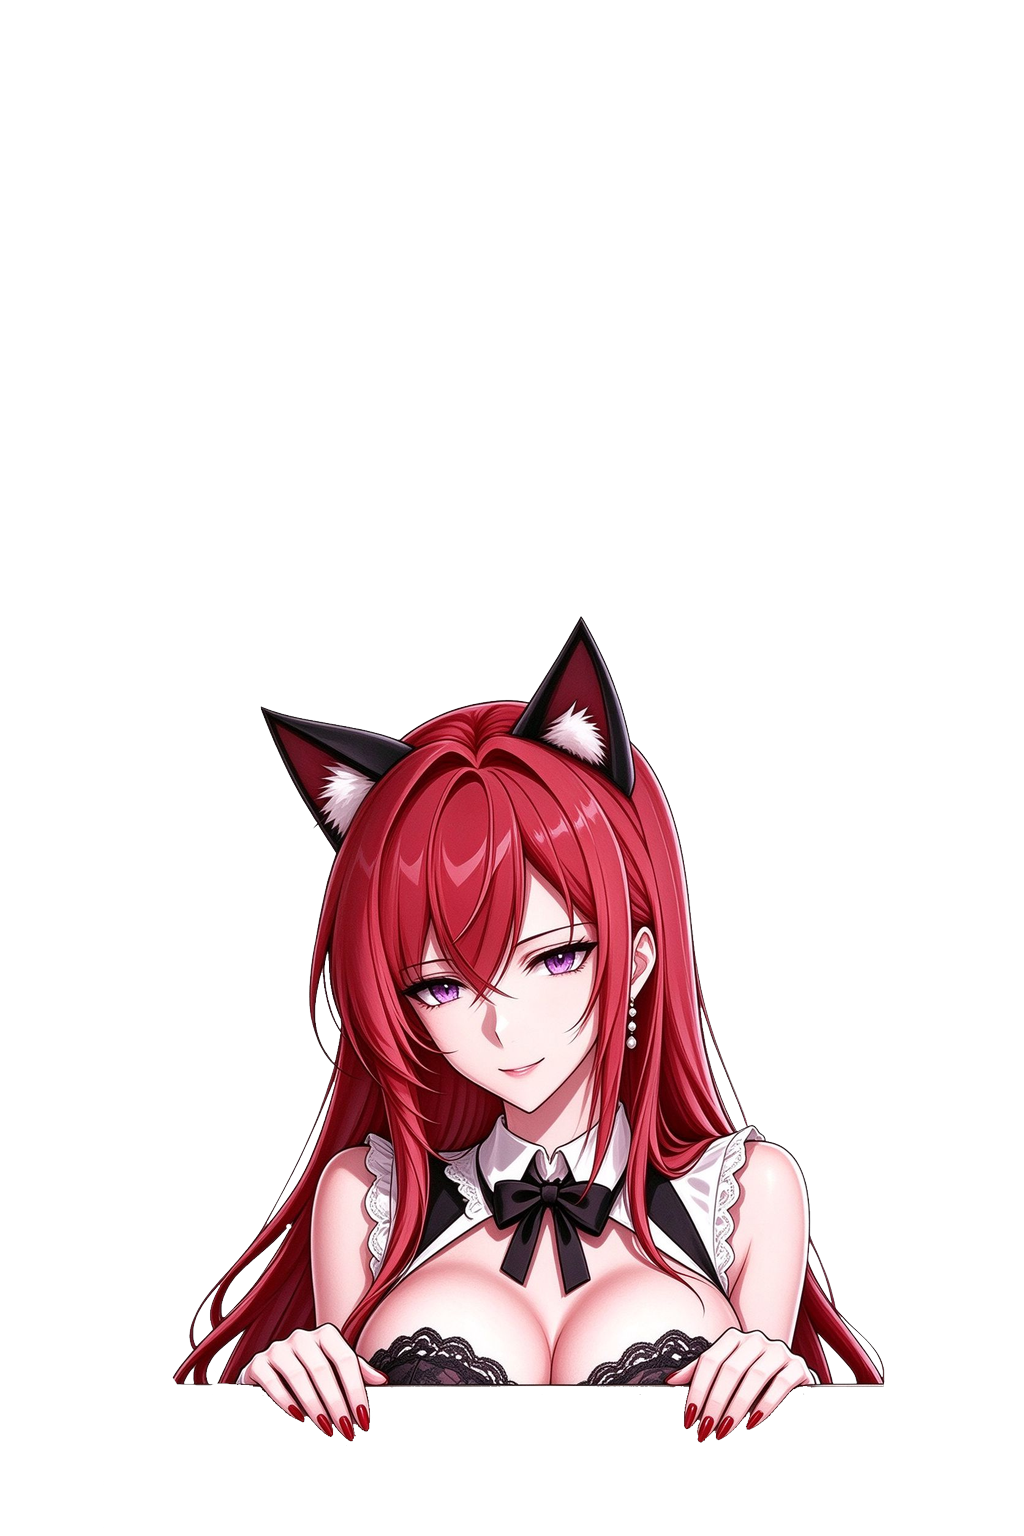
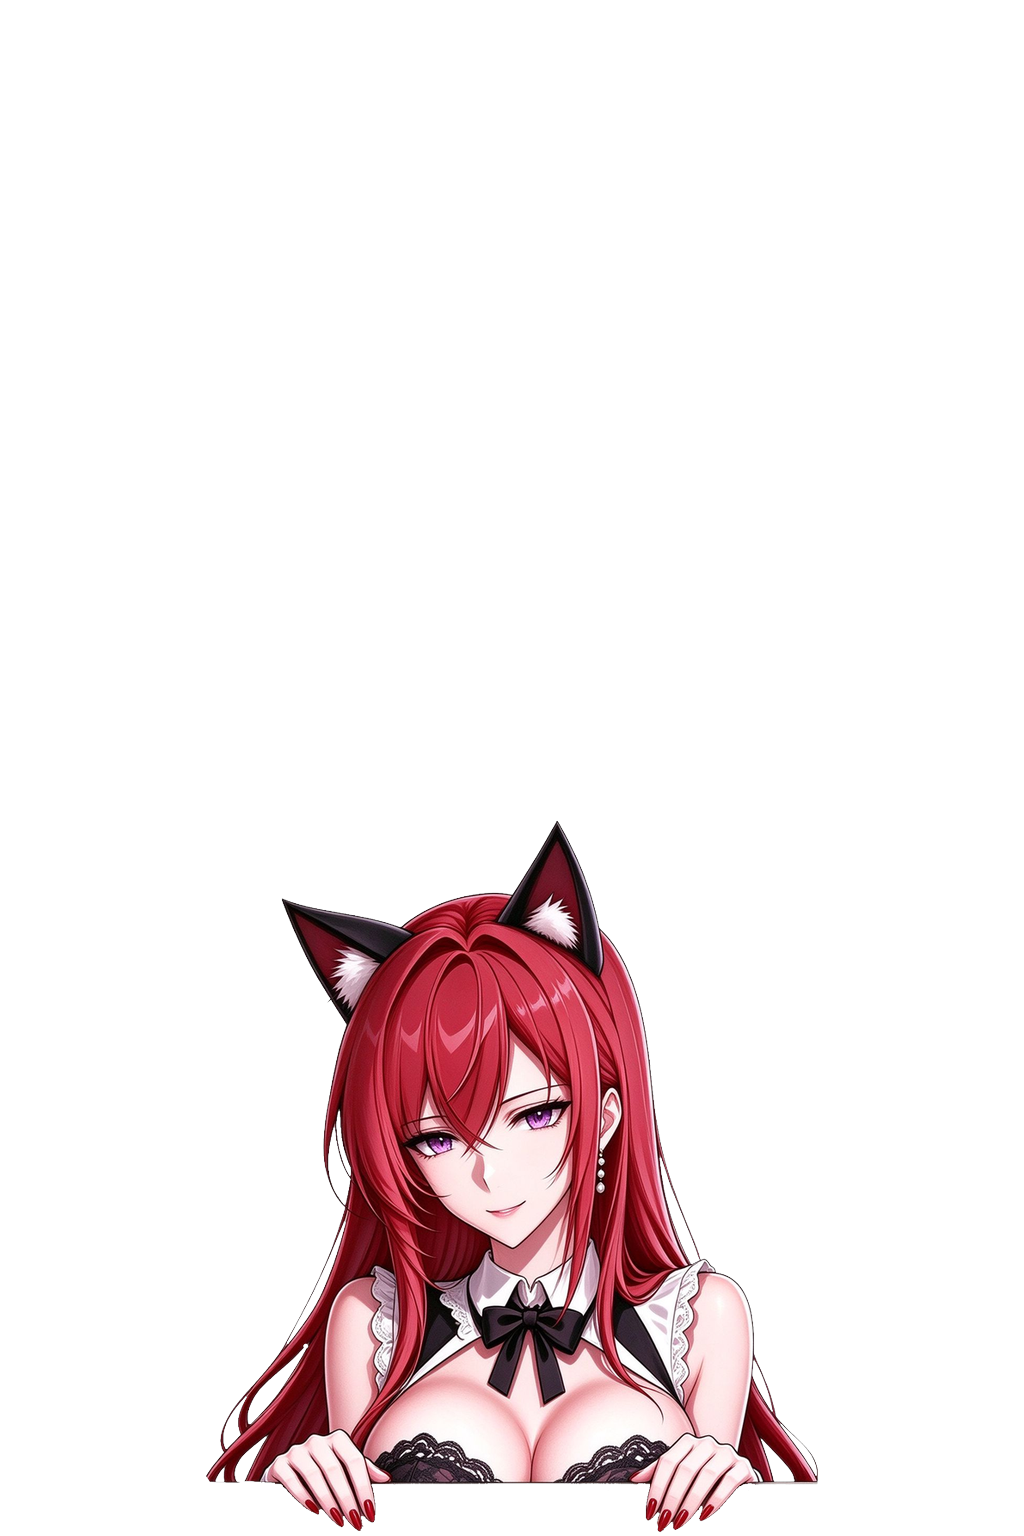
fix(wall): 三款趴墙高度统一以萝莉为标准 - wallScale固定1.0 + rabit/cat wall素材缩到47%贴底

Changed region(s): [[0.1562, 0.4062, 0.875, 1.0]]

diff --git a/HUD/sources/HUDRootViewController.mm b/HUD/sources/HUDRootViewController.mm
@@ -479,9 +479,9 @@ extern "C" const char *g_hud_char;
     // v6.0.9：趴墙缩小显示——角色以平时一半高度贴在边缘（原用全高 size 导致趴墙角色过大、girl 底部/左右趴墙不贴合）。
     // 先设缩小尺寸，再按缩小后尺寸吸附，角色中心放屏幕边缘线、半身探出（企鹅趴墙探头效果）。
     // v6.0.21：顶/底趴墙在原50%基础上再缩25%(→37.5%)；左/右趴墙保持50%（用户只要求底部缩小）
-    // v6.0.25：趴墙高度按角色限幅——猫娘站姿1.4若直接乘会让趴墙(78.75pt)比萝莉(56.25)高40%、突兀；
-    // 限到兔娘级(1.2)，猫娘趴墙与兔娘一致(67.5pt/90pt)，站姿放大不受影响
-    CGFloat wallScale = MIN(_charScale, 1.2f);
+    // v6.0.26：三款趴墙高度统一以萝莉为标准——wallScale 固定 1.0，不再随 charScale 放大；
+    // 素材侧 rabit_wall/cat_wall 内容已缩到与 girl_wall 一致（内容高47%贴底），站姿放大(1.4/1.2/1.0)不受影响
+    CGFloat wallScale = 1.0f;
     CGFloat wallH = (wallImg == _wallImage)
         ? (CGFloat)g_hud_size * wallScale * 0.375
         : (CGFloat)g_hud_size * wallScale * 0.5;
